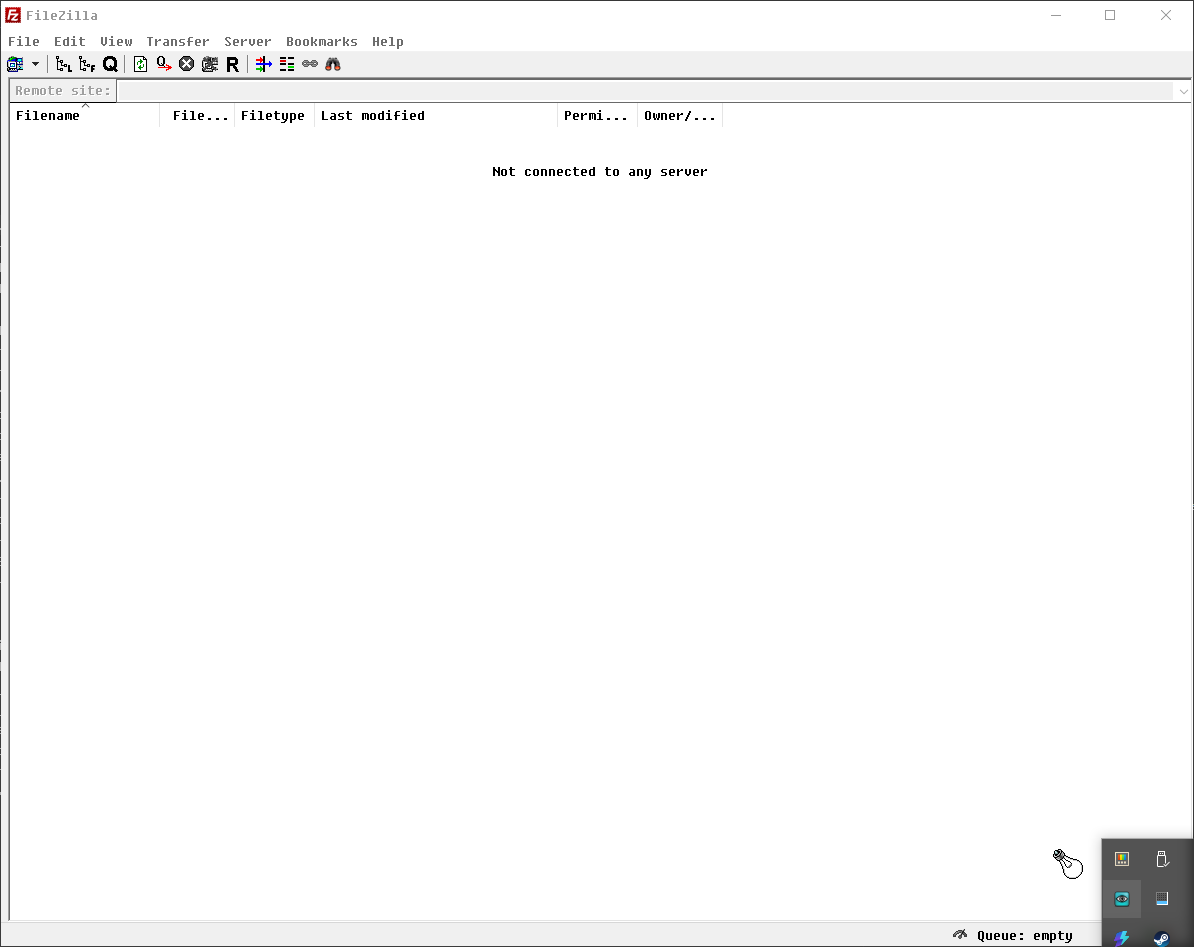
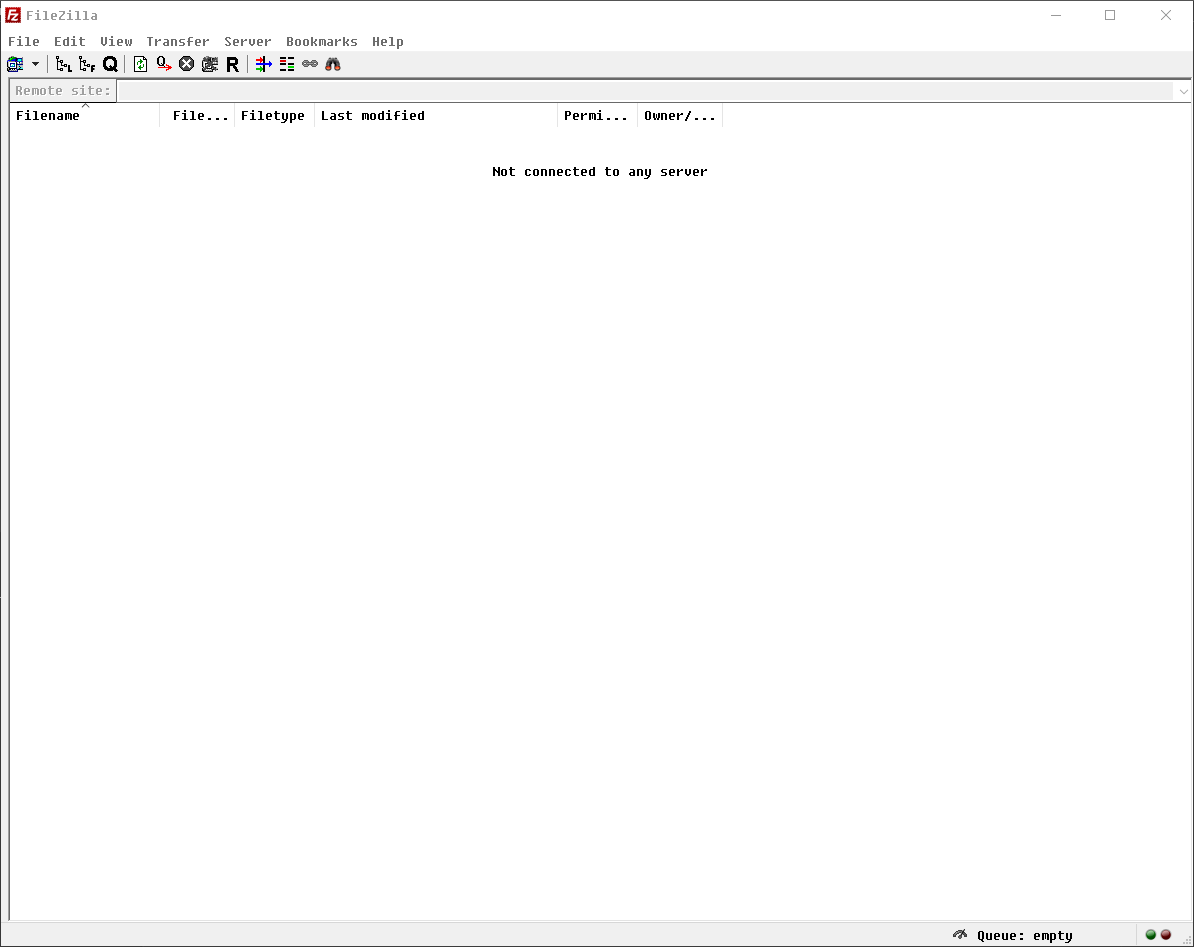
screenshot

Changed region(s): [[0.8677, 0.8574, 1.0, 1.0]]

diff --git a/README.md b/README.md
@@ -1,14 +1,15 @@
-** elys changes **
+**elys changes**
+
 I hate that local pane.  I wanted only single pane like winscp.   
 I added hiding local pane in the setting and ability to hide local pane.
 I know it is more of a code hack.        
 you need to restart after and move the old blank pane to left after you checked the hide local pane in the settings.    
    
-=========================================================================================================================
 
 ![FileZilla Client](https://github.com/ELY3M/elys-filezilla/blob/master/screenshot.png)
 
-=========================================================================================================================   
+
+=======================================================   
 
 
                                FileZilla Client
